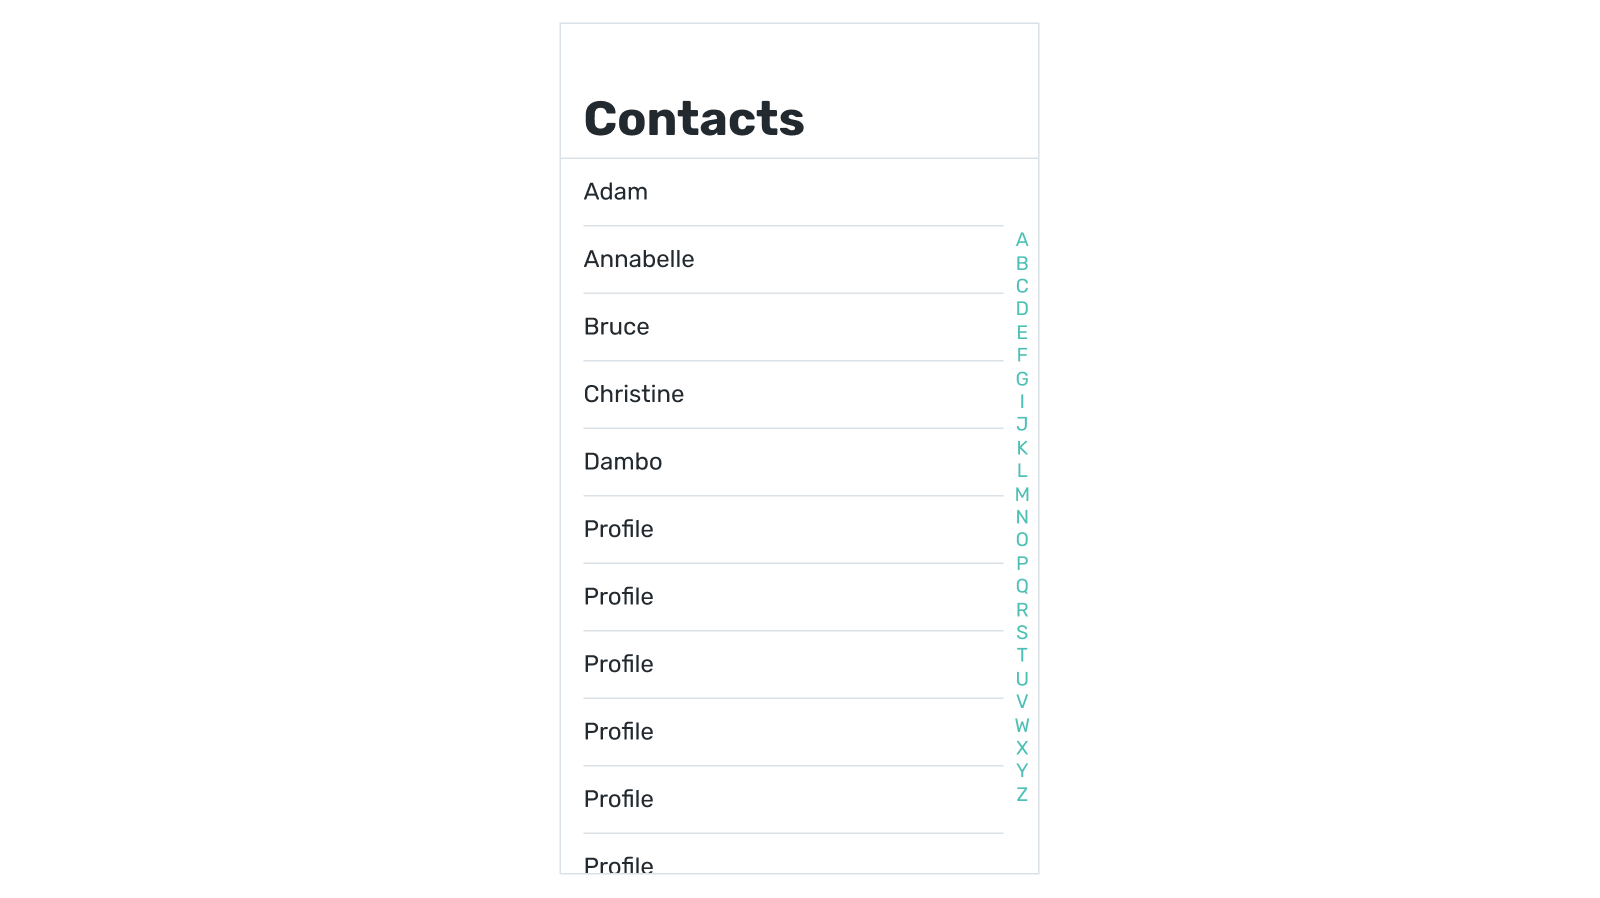
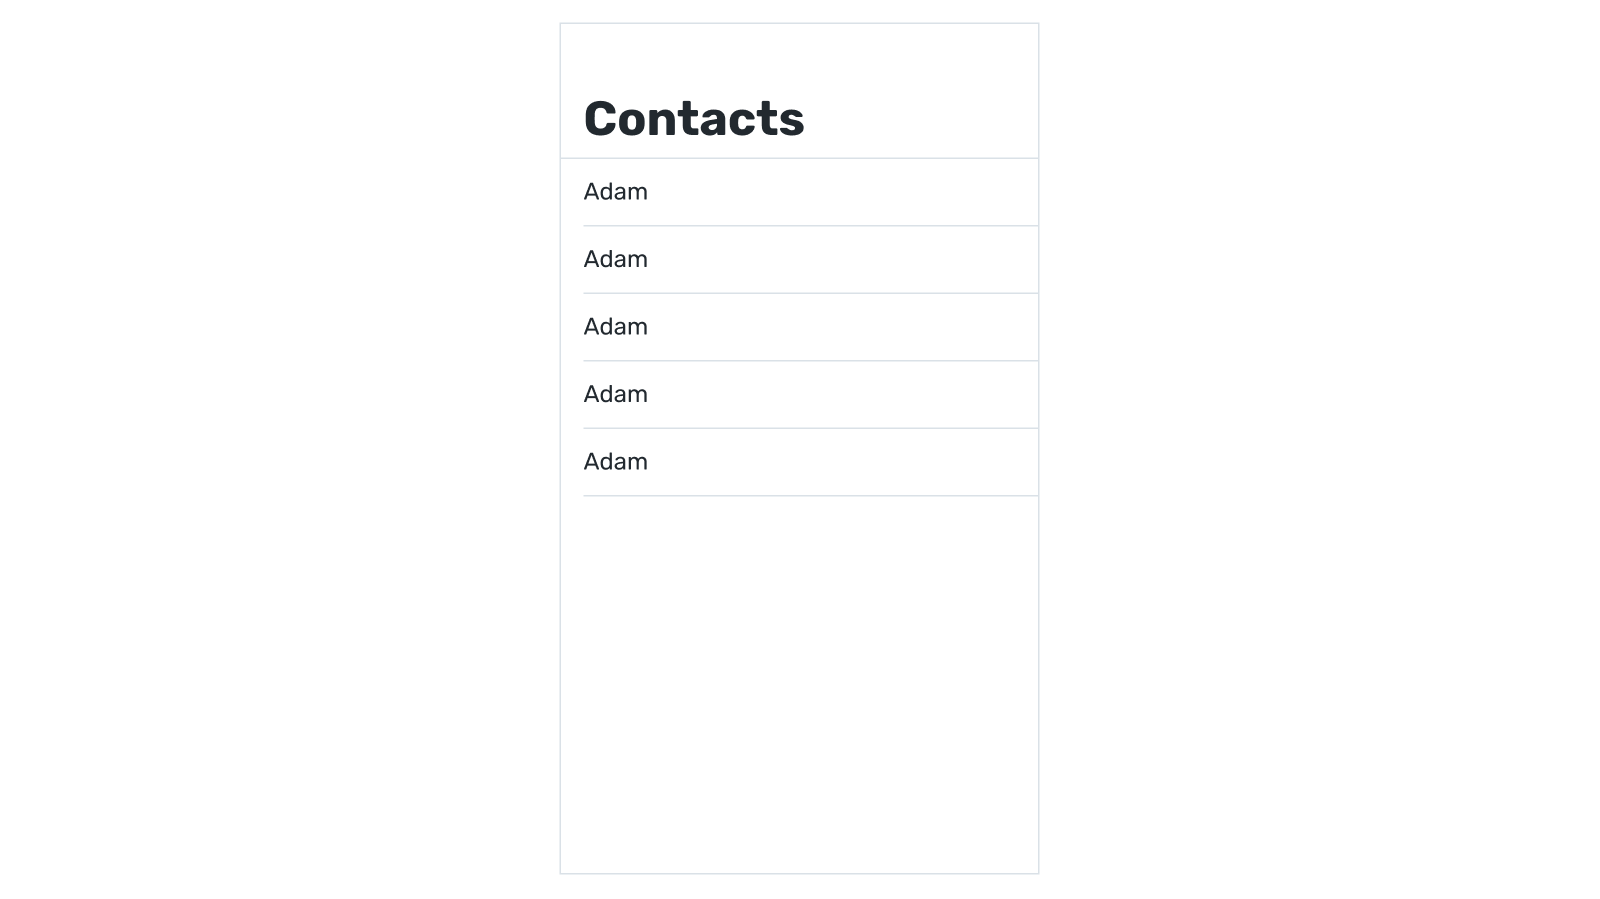
List, notes to Layouts basics

diff --git a/docs/.vuepress/config.js b/docs/.vuepress/config.js
@@ -16,6 +16,7 @@ module.exports = {
         { text: 'Layout basics', link: '/Courses/LayoutBasics/' },
         { text: 'Interaction basics', link: '/Courses/InteractionBasics/' },
       ]},
+      { text: 'Cookbook', link: '/Cookbook/' },
       // { text: 'Slack', link: 'https://join.slack.com/t/mockupless/shared_invite/enQtNDg2NzE0MDc2MDk2LTY4YTFmM2ZlMjUxMjk2ZDYzZmQ4MTQzMjgzNDhmMjY3NTVjYTBhODYzZDI3MTllNDliZmNmZmQ2NTMxMmMyNzg' },
       { text: 'Forum', link: 'https://forum.mockupless.com' },
       { text: 'GitHub', link: 'https://github.com/andgordio/mockupless' },
@@ -23,13 +24,22 @@ module.exports = {
     sidebarDepth: 0,
     sidebar: {
       '/Courses/LayoutBasics/': [
-        // '',
+        {
+          title: 'Intro to Layout basics',
+          collapsable: false,
+          children: [
+            '',
+            'Intro/html-and-css',
+            'Intro/template',
+          ]
+        },
         {
           title: 'Core',
           collapsable: false,
           children: [
             // 'Core/units',
             // 'Core/color',
+            'Core/containers',
             'Core/form',
           ]
         },
@@ -117,6 +127,13 @@ module.exports = {
             'Lists-and-loops/objects',
           ]
         },
+      ],
+      '/Cookbook/': [
+        '',
+        'switch',
+        'responsive-header',
+        'drag-n-drop',
+        'timeout',
       ]
     }
   }

diff --git a/docs/Courses/InteractionBasics/Lists-and-loops/lists.md b/docs/Courses/InteractionBasics/Lists-and-loops/lists.md
@@ -1,12 +1,33 @@
 # Lists
 
+![hey](./media/lists-diagram-1.png)
 <!-- todo: a nice illustration with a list and a grid / maybe real-world examples, but probably no -->
 
-Quite often you need to show repeating components in lists, grids, etc. They should have similar look and behaviour, but the content should be different. Let's take a simple list of contacts for example:
+Quite often you need to show repeating components in lists, grids, etc. They should have similar look and behaviour, but the content is probably different. In this chapter you will learn how to generate lists and grids from one item only. As you may have guessed, it's a huge timesaver. 
+
+Let's start with a simple list of contacts:
 
 ![hey](./media/lists-wireframes-1.png)
 
-The most straight-forward way to prototype this is to create a container for every single item, add styles and populate each one of them with content. The donwside to this approach becomes obvious pretty fast: you need to write **a lot of repetative code** and every change to their layout has to be implemented for every container.
+The most straight-forward way to prototype this is to create a container for every single item with identical styles and populate each one of them with content:
+
+```vue
+<div class="border-b border-grey-lighter py-4 ml-2">
+  Adam
+</div>
+<div class="border-b border-grey-lighter py-4 ml-2">
+  Annabelle
+</div>
+<div class="border-b border-grey-lighter py-4 ml-2">
+  Bruce
+</div>
+<div class="border-b border-grey-lighter py-4 ml-2">
+  Christine
+</div>
+<!-- many similar containers more here -->
+```
+
+The donwside of this approach is pretty obvious — you need to write **a lot of repetative code** and every change of style has to be applied to multiple containers.
 
 Vue provides an alternative way of rendering repeating items that allows to create item layout only once. To achieve this, you will have to do 2 things:
 
@@ -17,7 +38,7 @@ Let's go through these concepts one by one.
 
 ## Array
 
-You are familiar with [primitive data types](./../Data/variables.md#variables): numbers, strings and booleans. An array is a variable used to store a list of values of any kind:
+You are already familiar with [primitive data types](./../Data/variables.md#variables): numbers, strings and booleans. Array is the first non-primitive data type introduced in this course, and it is used to store **a list of values of any kind**:
 
 ```js
 data: {
@@ -25,10 +46,10 @@ data: {
 }
 ```
 
-The content of an array is placed within square brackets and its items are separated by comas. Think of an array as a list of variables that don't have names.
+The content of an array is placed within square brackets and its items are separated by commas. Think of an array as a list of variables that don't have names.
 <!-- todo: maybe say: Kinda, but will get to that in the next lesson. -->
 
-Going back to the contacts list prototype, here's an array with contact names:
+An array is a perfect fit for items you have to display as a list in the UI:
 
 ```js
 data: {
@@ -36,12 +57,12 @@ data: {
 }
 ```
 
-With data stored properly, you are ready to create a repeating container.
+With contacts stored in a variable, you are ready to create a repeating container. This where a loop comes into play.
 
 
 ## Loop
 
-first, create a layout for one item:
+First, you create a container for a single item on the list:
 
 ```html
 <div class="border-b border-grey py-4">
@@ -49,17 +70,47 @@ first, create a layout for one item:
 </div>
 ```
 
-Now you can repeat this layout for every item in an array. For this you need to add `v-for` attribute and use a value from an array as a content. <!--mention maybe that it's called loop? -->
+Now, instead of manually copying this code many times in your layout, you add `v-for` attribute to the container to create a loop:
 
 ```html
-<div v-for="contact in contacts" class="border-b border-grey py-4">
-  {{contact}}
+<div v-for="item in contacts" class="border-b border-grey py-4">
+  Adam
 </div>
 ```
 
-The attribute can be read as “Repeat the container for each value in `contacts` array. For each repetition allow me to access the value by the name of `contact`”. `contact` is a temporary name you give to an item in an array when it's being rendered.
+The attribute can be read as “Render the container for each item in `contacts` array”. This basically turns the container into a **template**, which is used to generate so many actual containers as many items the array has.
 
-> maybe an animation of how rendering works (see notepad)
+Here's what you'll see in a browser for the code above: 
+
+![hey](./media/lists-wireframes-2.png)
+
+You see that the container is shown 5 times, and that's exactly the number of items in the `contacts` array. However all items have the same content — the name you've put inside the container — and this is not the result you expect. This can be fixed easily with another feature `v-for` comes packed with.
+
+As mentioned earlier `v-for="item in contacts"` stands for "render a container for each item in `contacts` array". What's also important is that `item` is a **temporary name** you give to a variable at the time when a container for it is rendered. This means 2 things:
+1. You can use almost any word instead of `item`. For example, `v-for="contact in contacts"` works absolutely the same.
+2. More importantly, you can use this name in your template-container. This way when, for example, a first copy a of the container is rendered the name is assigned to the value of the first item in the array. The same is repeated for the second item, the third, and every item the array has. Take a look at how this looks in practice:
+
+```vue
+<div v-for="item in contacts" class="border-b border-grey py-4">
+  {{item}}
+</div>
+```
+
+So each item in the array is used to render a copy of the container, and its value is used to populate the copy with content:
+
+![hey](./media/lists-wireframes-1.png)
+
+<!-- todo: continue from here -->
+
+
+<!-- `v-for` creates a loop, and 3 amazing things happen when you add it:
+- You reference `contacts` array so the loop renders a copy of the container for every item in the array.
+- You define a temporary name `contact` for a variable in the array. As mentioned above, a copy is created for every variable in the array, and the name gives you access to the variable when its copy is being rendered.
+- You use the temporary name inside a container to render the value of the variable that was used to create the  -->
+
+<!-- The attribute can be read as “Repeat the container for each value in `contacts` array. For each repetition allow me to access the value by the name of `contact`”. `contact` is a temporary name you give to an item in an array when it's being rendered. -->
+
+<!-- todo: maybe an animation of how rendering works (see notepad) -->
 
 #### 👐 Hands-on
 
@@ -73,7 +124,7 @@ Use template with one letter on the right (like iOS contacts app)
 Create an array with all alphabet letters <!--todo: maybe suggest a good way to do this-->
 Make the block repeat to show indexes
 
-![hey](./media/lists-wireframes-2.png)
+<!-- ![hey](./media/lists-wireframes-2.png) -->
 
 ```js
 ['a', 'b', 'c', 'd', 'e', 'f', 'g', 'h', 'i', 'j', 'k', 'l', 'm', 'n', 'o', 'p', 'q', 'r', 's', 't', 'u', 'v', 'w', 'x', 'y', 'z']

diff --git a/docs/Courses/LayoutBasics/Core/containers.md b/docs/Courses/LayoutBasics/Core/containers.md
@@ -1,0 +1,21 @@
+# Containers
+
+since this covers html only and no css, I must warn you without css things are quite ugly
+
+container is a pair of tags — an opening and closing one — and content in between. angle brackets
+
+some tags don’t need a closing tag
+
+containers have nested structure. Just like groups of layers, one folds into another one, and into another one and so on. There are terms to define this relations: **parent** container and **child** container. This definition is relative, a container can be a child container to a container it's placed within, and at the same time a parent container to the ones inside it.
+
+comment with cmd+/
+
+generate dummy text with lorem or lorem12
+
+> video demo of typing a tag and receiving a suggestion
+
+tags we won't cover in the course: h1-h6, p, ul and ol, table, form, b, i, strong, em, small, input:submit, br, hr, blockquote, abbr, cite, semantic tags (“clearly describes its meaning to a browser and a developer”: header, footer, aside, main, article, nav, section, details)
+
+inline: ~~do not start on a new line,~~ don't take full width. block: ~~start a new line,~~ take full width
+
+<!-- todo: cover div, span, a, img, button -->

diff --git a/docs/Cookbook/switch.md b/docs/Cookbook/switch.md
@@ -1,0 +1,27 @@
+# Switch
+
+<!-- todo: explain assigning the opposite value in details -->
+<!-- todo: maybe provide with a couple more complex examples -->
+
+```css
+.aniswitch {
+  transition: all .2s;
+}
+```
+
+```html
+<div class="flex items-center justify-center mt-8">
+  <div class="flex items-center w-full max-w-sm cursor-pointer border border-grey-lighter py-3 pl-6 pr-5 rounded-full" @click="doHideCompleted = !doHideCompleted">
+    <div class="flex-1">
+      Hide completed
+    </div>
+    <div class="w-8 rounded-full bg-grey-light aniswitch" :class="{'bg-teal': doHideCompleted}">
+      <div class="w-4 h-4 rounded-full bg-white border border-grey-light aniswitch" :class="{'ml-4 border-teal': doHideCompleted}"></div>
+    </div>
+  </div>
+</div>
+```
+
+```js
+doHideCompleted: false
+```

diff --git a/docs/Courses/LayoutBasics/Intro/template.md b/docs/Courses/LayoutBasics/Intro/template.md
@@ -1,0 +1,12 @@
+# Template
+
+> video showing VSCode's html:5 shortcut
+
+prototypes you will create are simple html files. Can be edited in Code and viewed in any browser. A luxury you probably never experienced as designer: your source files are also output files.
+
+Always save as .html file. Do it before coding to see suggestions from VSCode.
+
+meta goes into head
+
+content goes into body
+

diff --git a/docs/Courses/LayoutBasics/Intro/html-and-css.md b/docs/Courses/LayoutBasics/Intro/html-and-css.md
@@ -1,0 +1,8 @@
+# HTML and CSS
+
+Are not programming languages, so no logic here. HTML is markup and CSS is style. HTML is Layer List in Sketch, CSS is Inspector.
+
+Html5 and CSS3 only, no other derivatives, these are the latest
+
+You’ll need to learn only a portion of tech, but still you need to take time to learn: read, practice, read again, discuss on forum, and practice more. 
+

diff --git a/docs/Courses/LayoutBasics/Core/form.md b/docs/Courses/LayoutBasics/Core/form.md
@@ -35,6 +35,10 @@ You can define `type` attribute to specify the kind of input.
 
 - same tag as for simple text input, but has a `checkbox` value in `type` attribute
 
+## Number
+
+## Date
+
 ## Radio button
 ```html
 <div>

diff --git a/docs/Cookbook/timeout.md b/docs/Cookbook/timeout.md
@@ -1,0 +1,3 @@
+# Timeout
+
+<!-- todo: demo setTimeout function, maybe simulate conversation with server -->

diff --git a/docs/Cookbook/responsive-header.md b/docs/Cookbook/responsive-header.md
@@ -1,0 +1,3 @@
+# Responsive header
+
+<!-- todo: hide icons on smaller screens, show More menu -->

diff --git a/docs/Cookbook/drag-n-drop.md b/docs/Cookbook/drag-n-drop.md
@@ -1,0 +1,3 @@
+# Drag and drop
+
+<!-- todo: import sortable.js, give a primitive example -->

diff --git a/docs/Cookbook/README.md b/docs/Cookbook/README.md
@@ -1,0 +1,1 @@
+# Welcome to Cookbook 🍪
